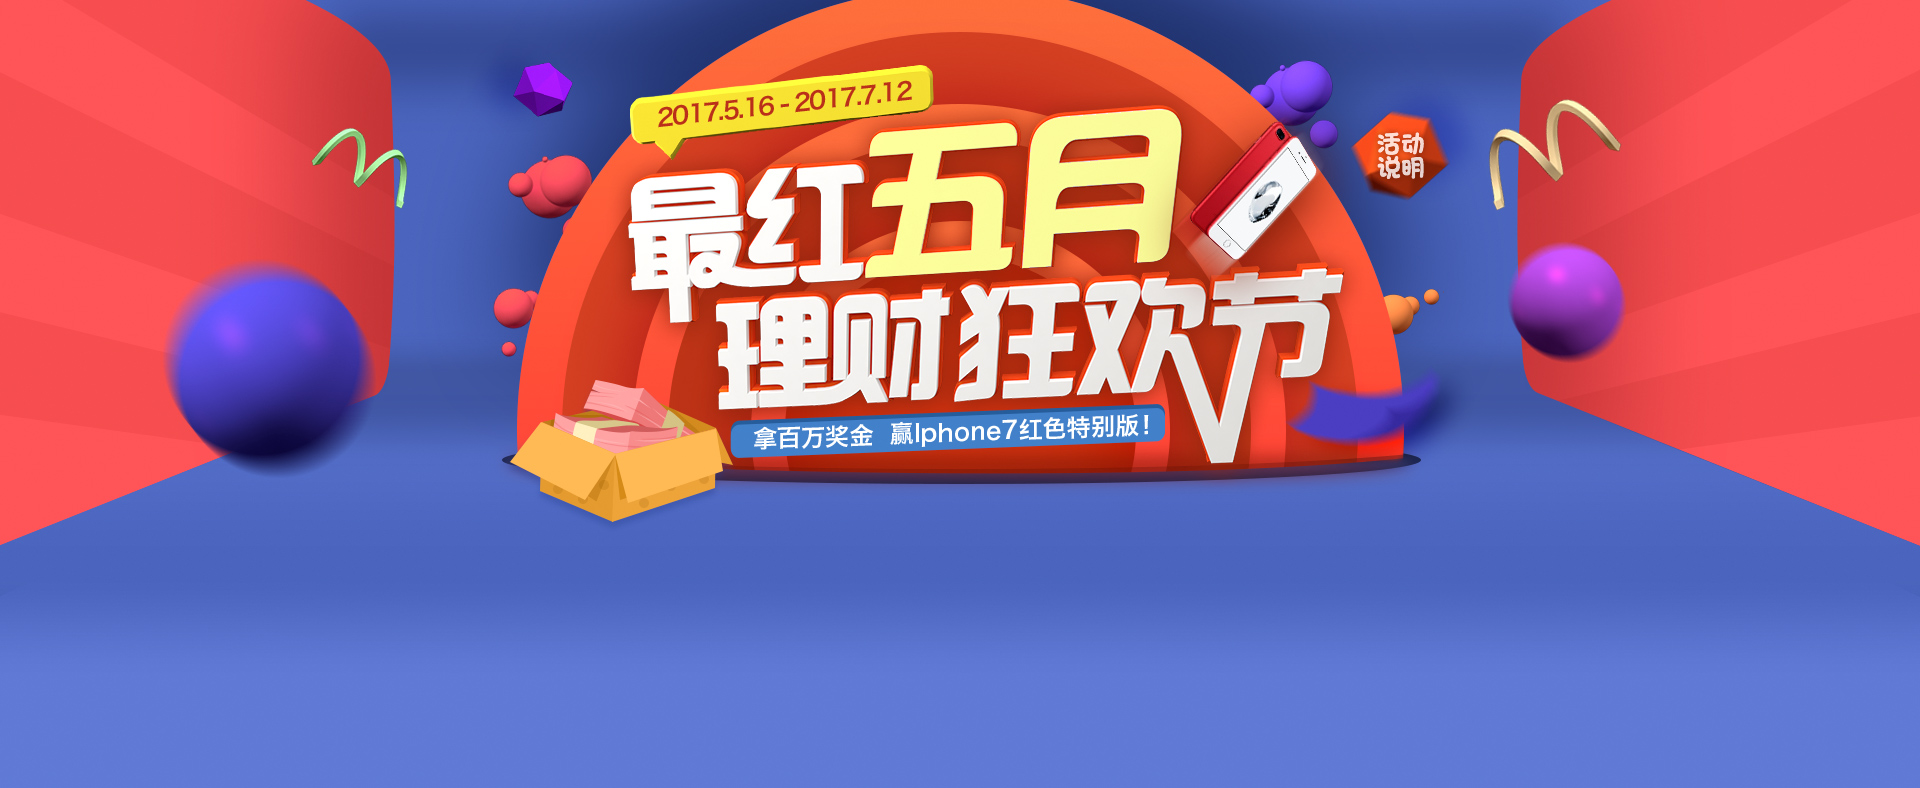
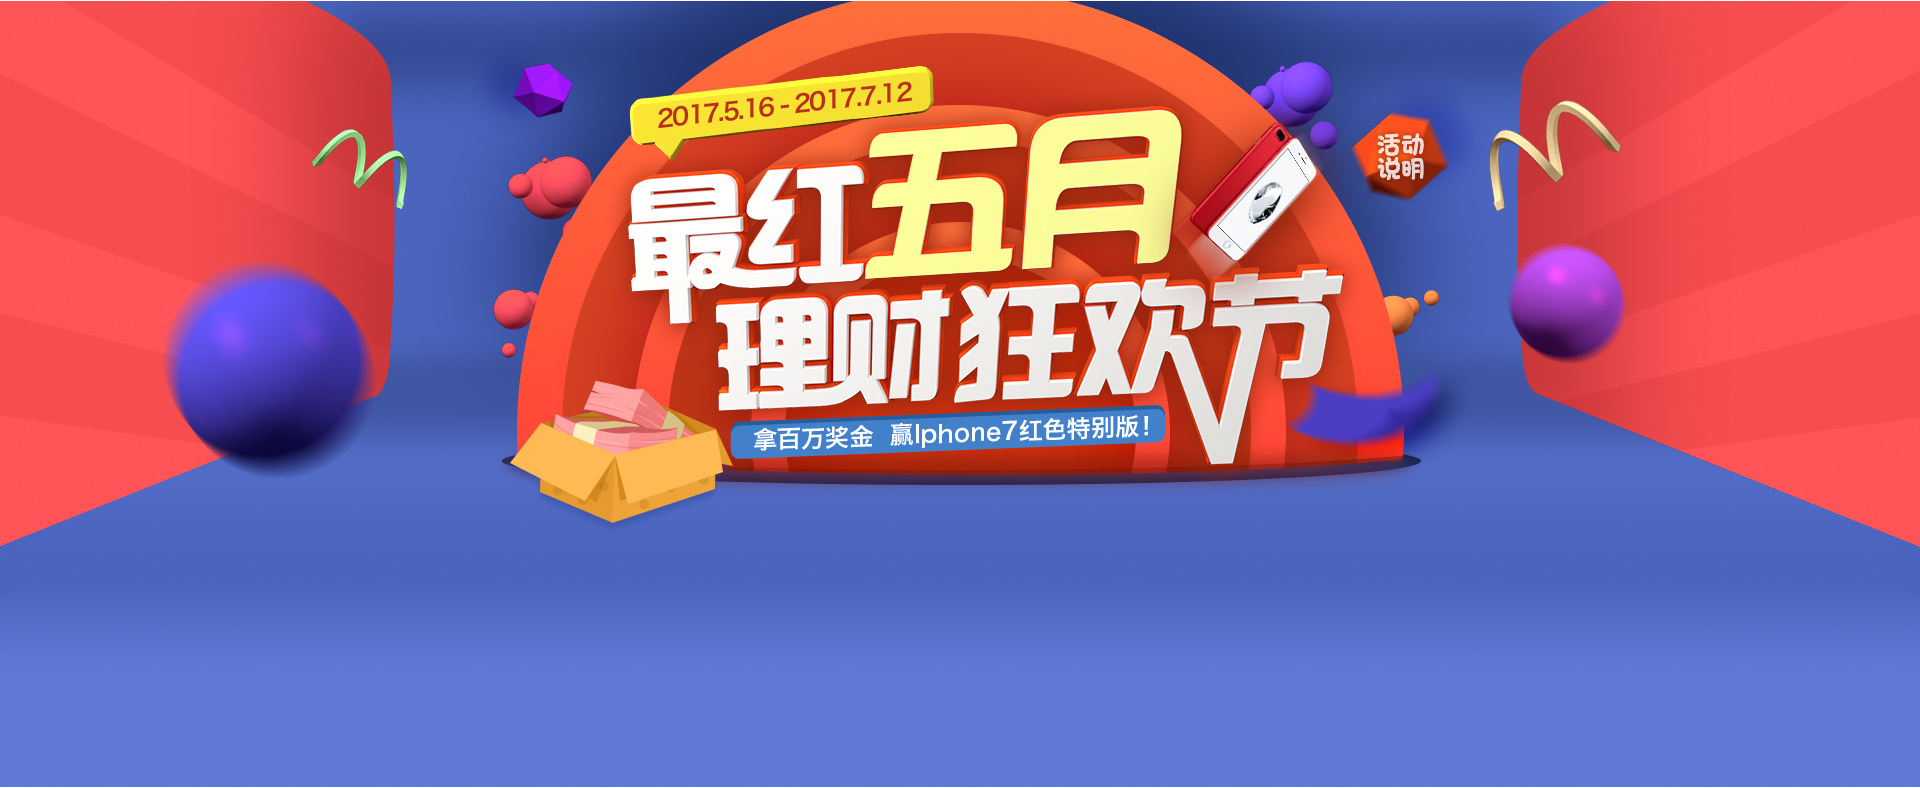
fix

diff --git a/lib/components/activity/board/slot-machine-pc.jsx b/lib/components/activity/board/slot-machine-pc.jsx
@@ -212,6 +212,7 @@ const SlotMachinePC = React.createClass({
                     this.refs.rockProduct3.lotteryDrawHandler(30, prizeMark, prize, remainTimes);
                 }, 600);
             } else {
+                window.once_delay = false;
                 ReactDOM.render(<PopMessage closePopHandle={this.closePopHandler} popTop="抽奖异常" popTitle={"抱歉，抽奖异常！"}
                                             popText={"请稍后再试，如需咨询请联系客服400-0322-988 。"}
                                             popBtn="朕知道了"/>, document.getElementById('pop'))
@@ -248,6 +249,7 @@ const SlotMachinePC = React.createClass({
                     this.refs.rockProduct3.tenLotteryDrawHandler(30, resultAward, remainTimes, prize_list);
                 }, 600);
             } else {
+                window.once_delay = false;
                 ReactDOM.render(<PopMessage closePopHandle={this.closePopHandler} popTop="抽奖异常" popTitle={"抱歉，抽奖异常！"}
                                             popText={"请稍后再试，如需咨询请联系客服400-0322-988 。"}
                                             popBtn="朕知道了"/>, document.getElementById('pop'))

diff --git a/apps/activity/2017-04-26/react/components/drawMobile.jsx b/apps/activity/2017-04-26/react/components/drawMobile.jsx
@@ -372,7 +372,7 @@ class DrawMobile extends React.Component {
                 6（团队）
             </div>
             <div className="switchMonthLadder">
-                <PersonTeamMonthLadderMobile start={start} end={end} isImgFun={this.isImgFun} personData={personData} teamData={teamData} getServerTimestamp={this.getServerTimestamp}/>
+                <PersonTeamMonthLadderMobile isImgFun={this.isImgFun} personData={personData} teamData={teamData}/>
             </div>
 
             <div className="drawTips drawTips2">
@@ -418,8 +418,7 @@ class DrawMobile extends React.Component {
                 6（团队）
             </div>
             <div className="switchTotalLadder">
-                <PersonTeamTotalLadderMobile isImgFun={this.isImgFun} fixedPrice={this.fixedPrice}
-                                       totalLadderTab={totalLadderTab}/>
+                <PersonTeamTotalLadderMobile isImgFun={this.isImgFun} totalLadderTab={totalLadderTab}/>
             </div>
 
             <div className="drawTips">

diff --git a/apps/activity/2017-04-26/react/components/personTeamMonthLadderMobile.jsx b/apps/activity/2017-04-26/react/components/personTeamMonthLadderMobile.jsx
@@ -20,7 +20,6 @@ class PersonTeamMonthLadderMobile extends React.Component {
     }
 
     componentWillReceiveProps(nextProps) {
-        this.setState({start: nextProps.start, end: nextProps.end});
         this.ajaxLadder(this.state.ladderTab, nextProps.personData, nextProps.teamData);
     }
 
@@ -88,7 +87,6 @@ class PersonTeamMonthLadderMobile extends React.Component {
 
     render() {
         let {totalPage,tab,ladderTab,cursor,thead,list} = this.state;
-        let {personData,teamData} = this.props;
         let pageImg = (item, index) => {
             return <div key={index}
                         className={totalPage>1?(tab == item ? 'selectedPage':null):'selectedPage'}

diff --git a/apps/activity/2017-04-26/less/pc.less b/apps/activity/2017-04-26/less/pc.less
@@ -11,10 +11,11 @@
     height: 788px;
     width: 1920px;
     position: relative;
-    background: url("../images/bannerPC.png") no-repeat center center;
+    background: url("../images/bannerPC.jpg") no-repeat center center;
     top: 0;
     left: 50%;
     margin-left: -960px;
+    margin-top: -2px;
     a{
       display: block;
       width: 90px;
